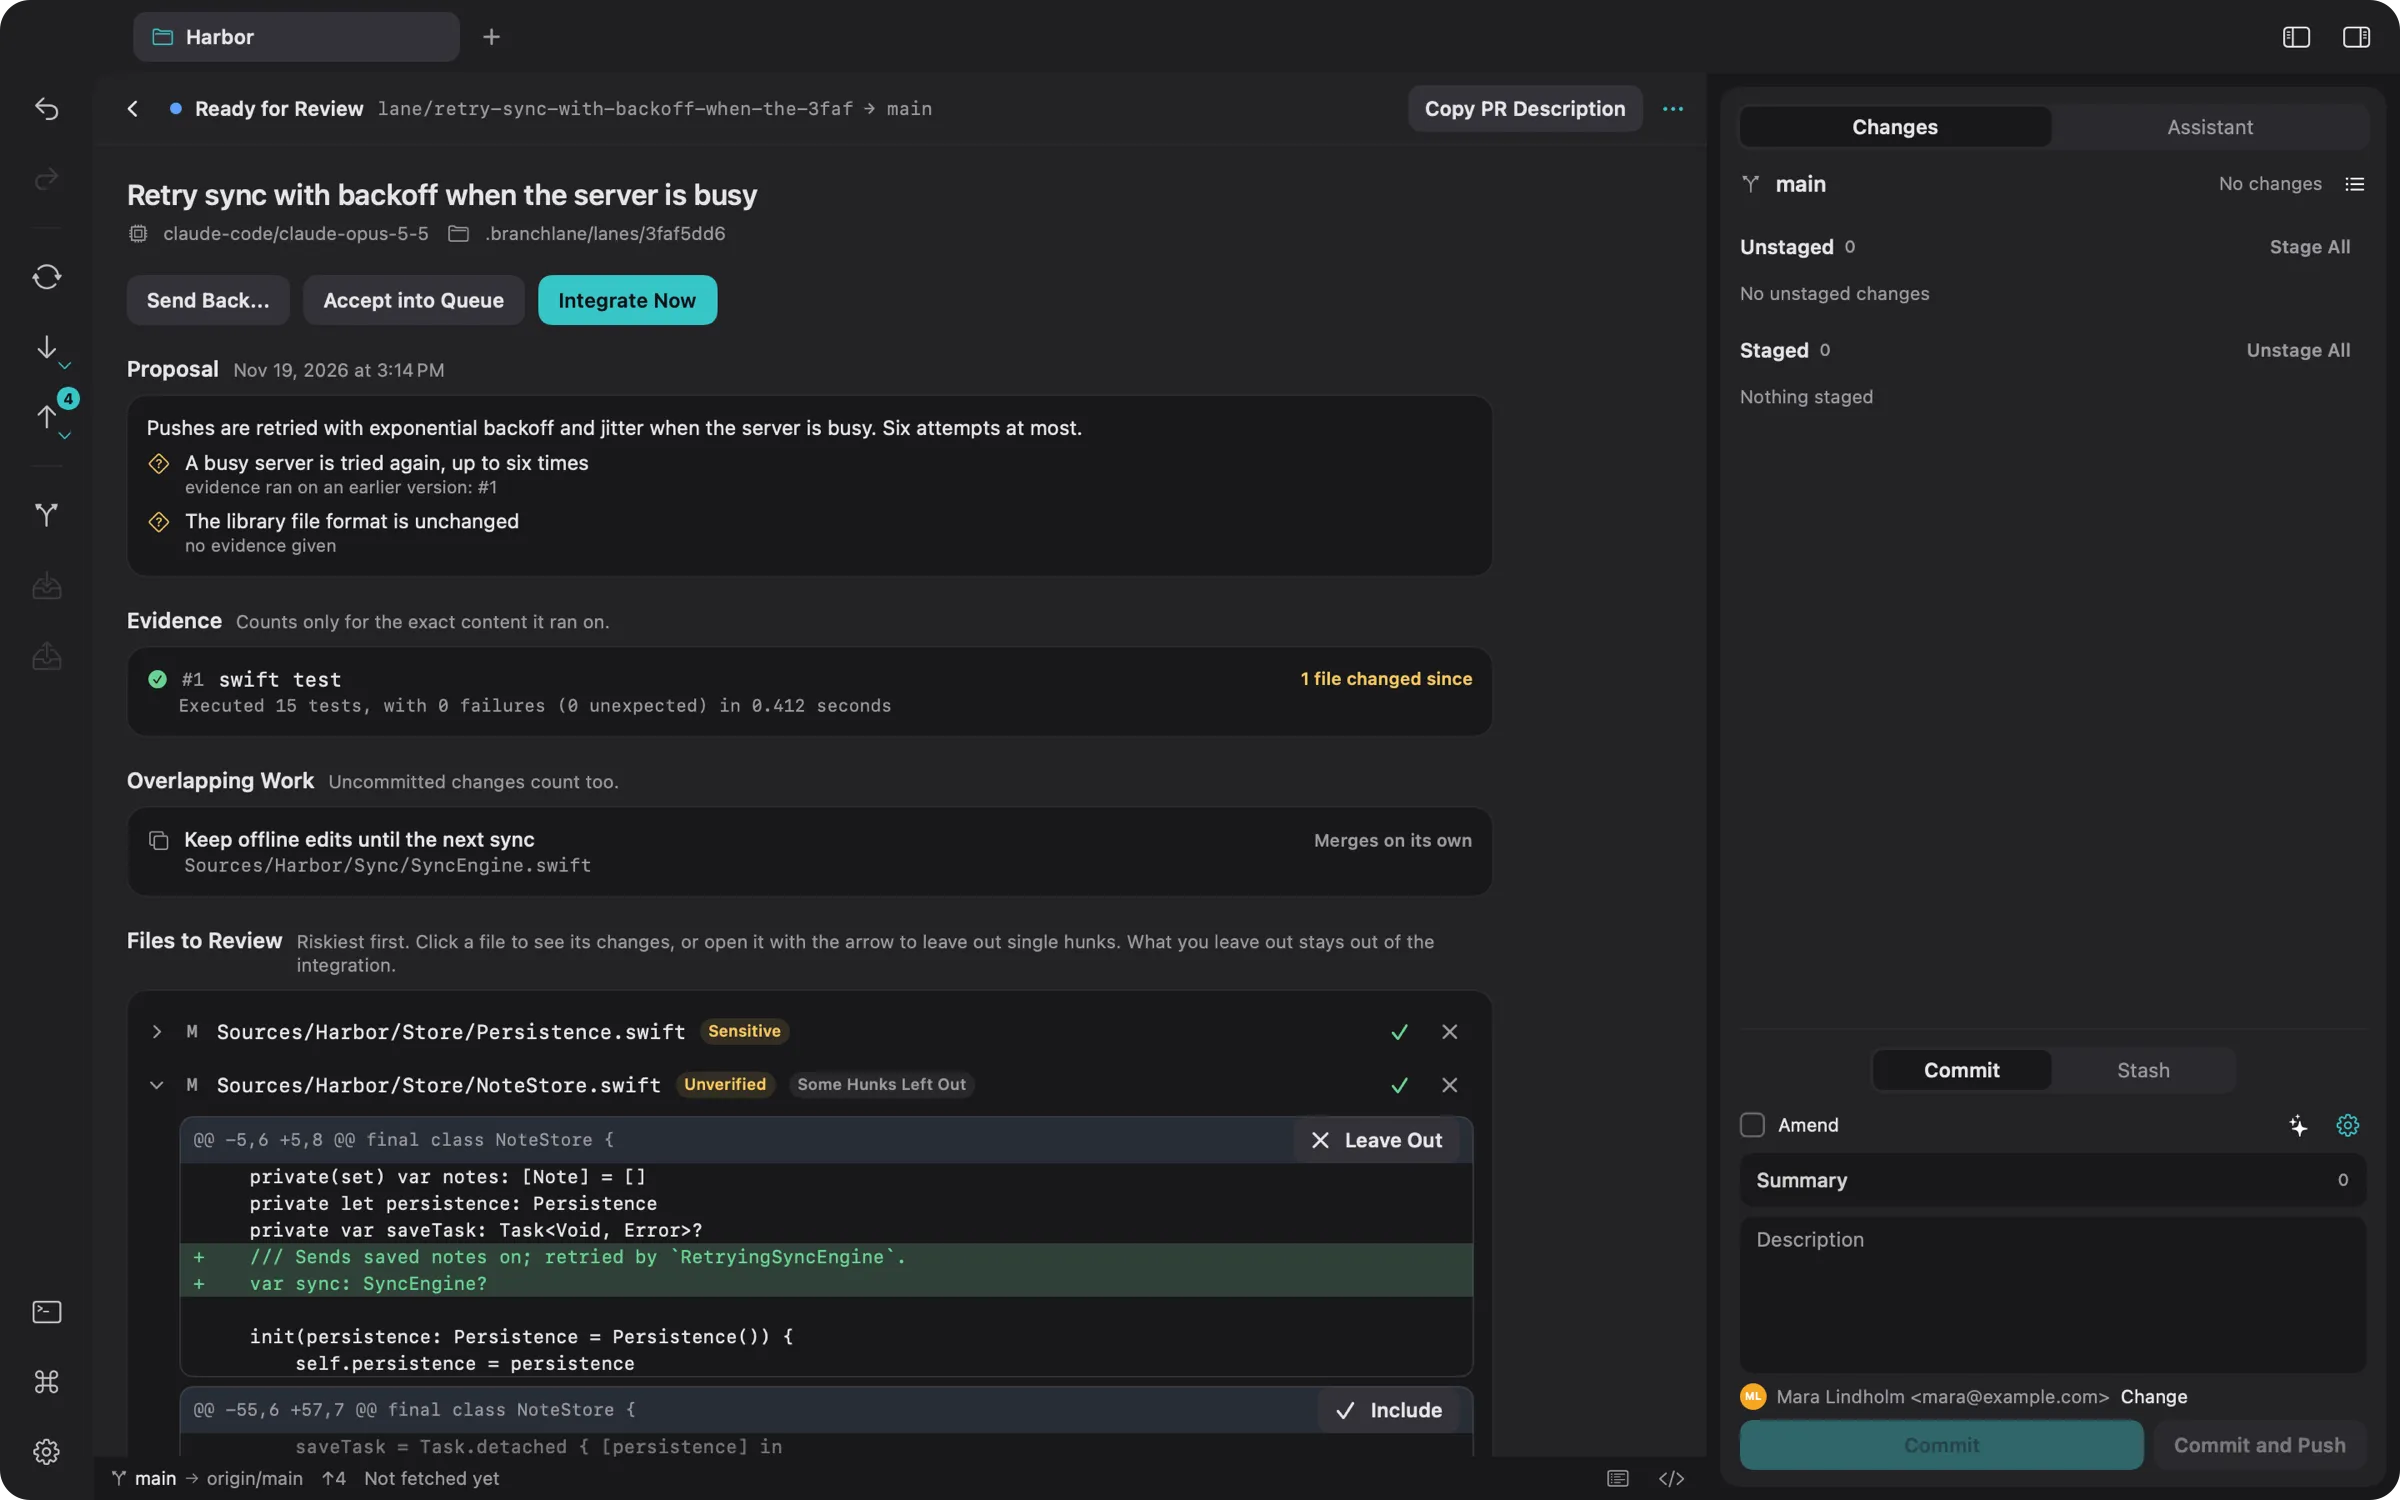
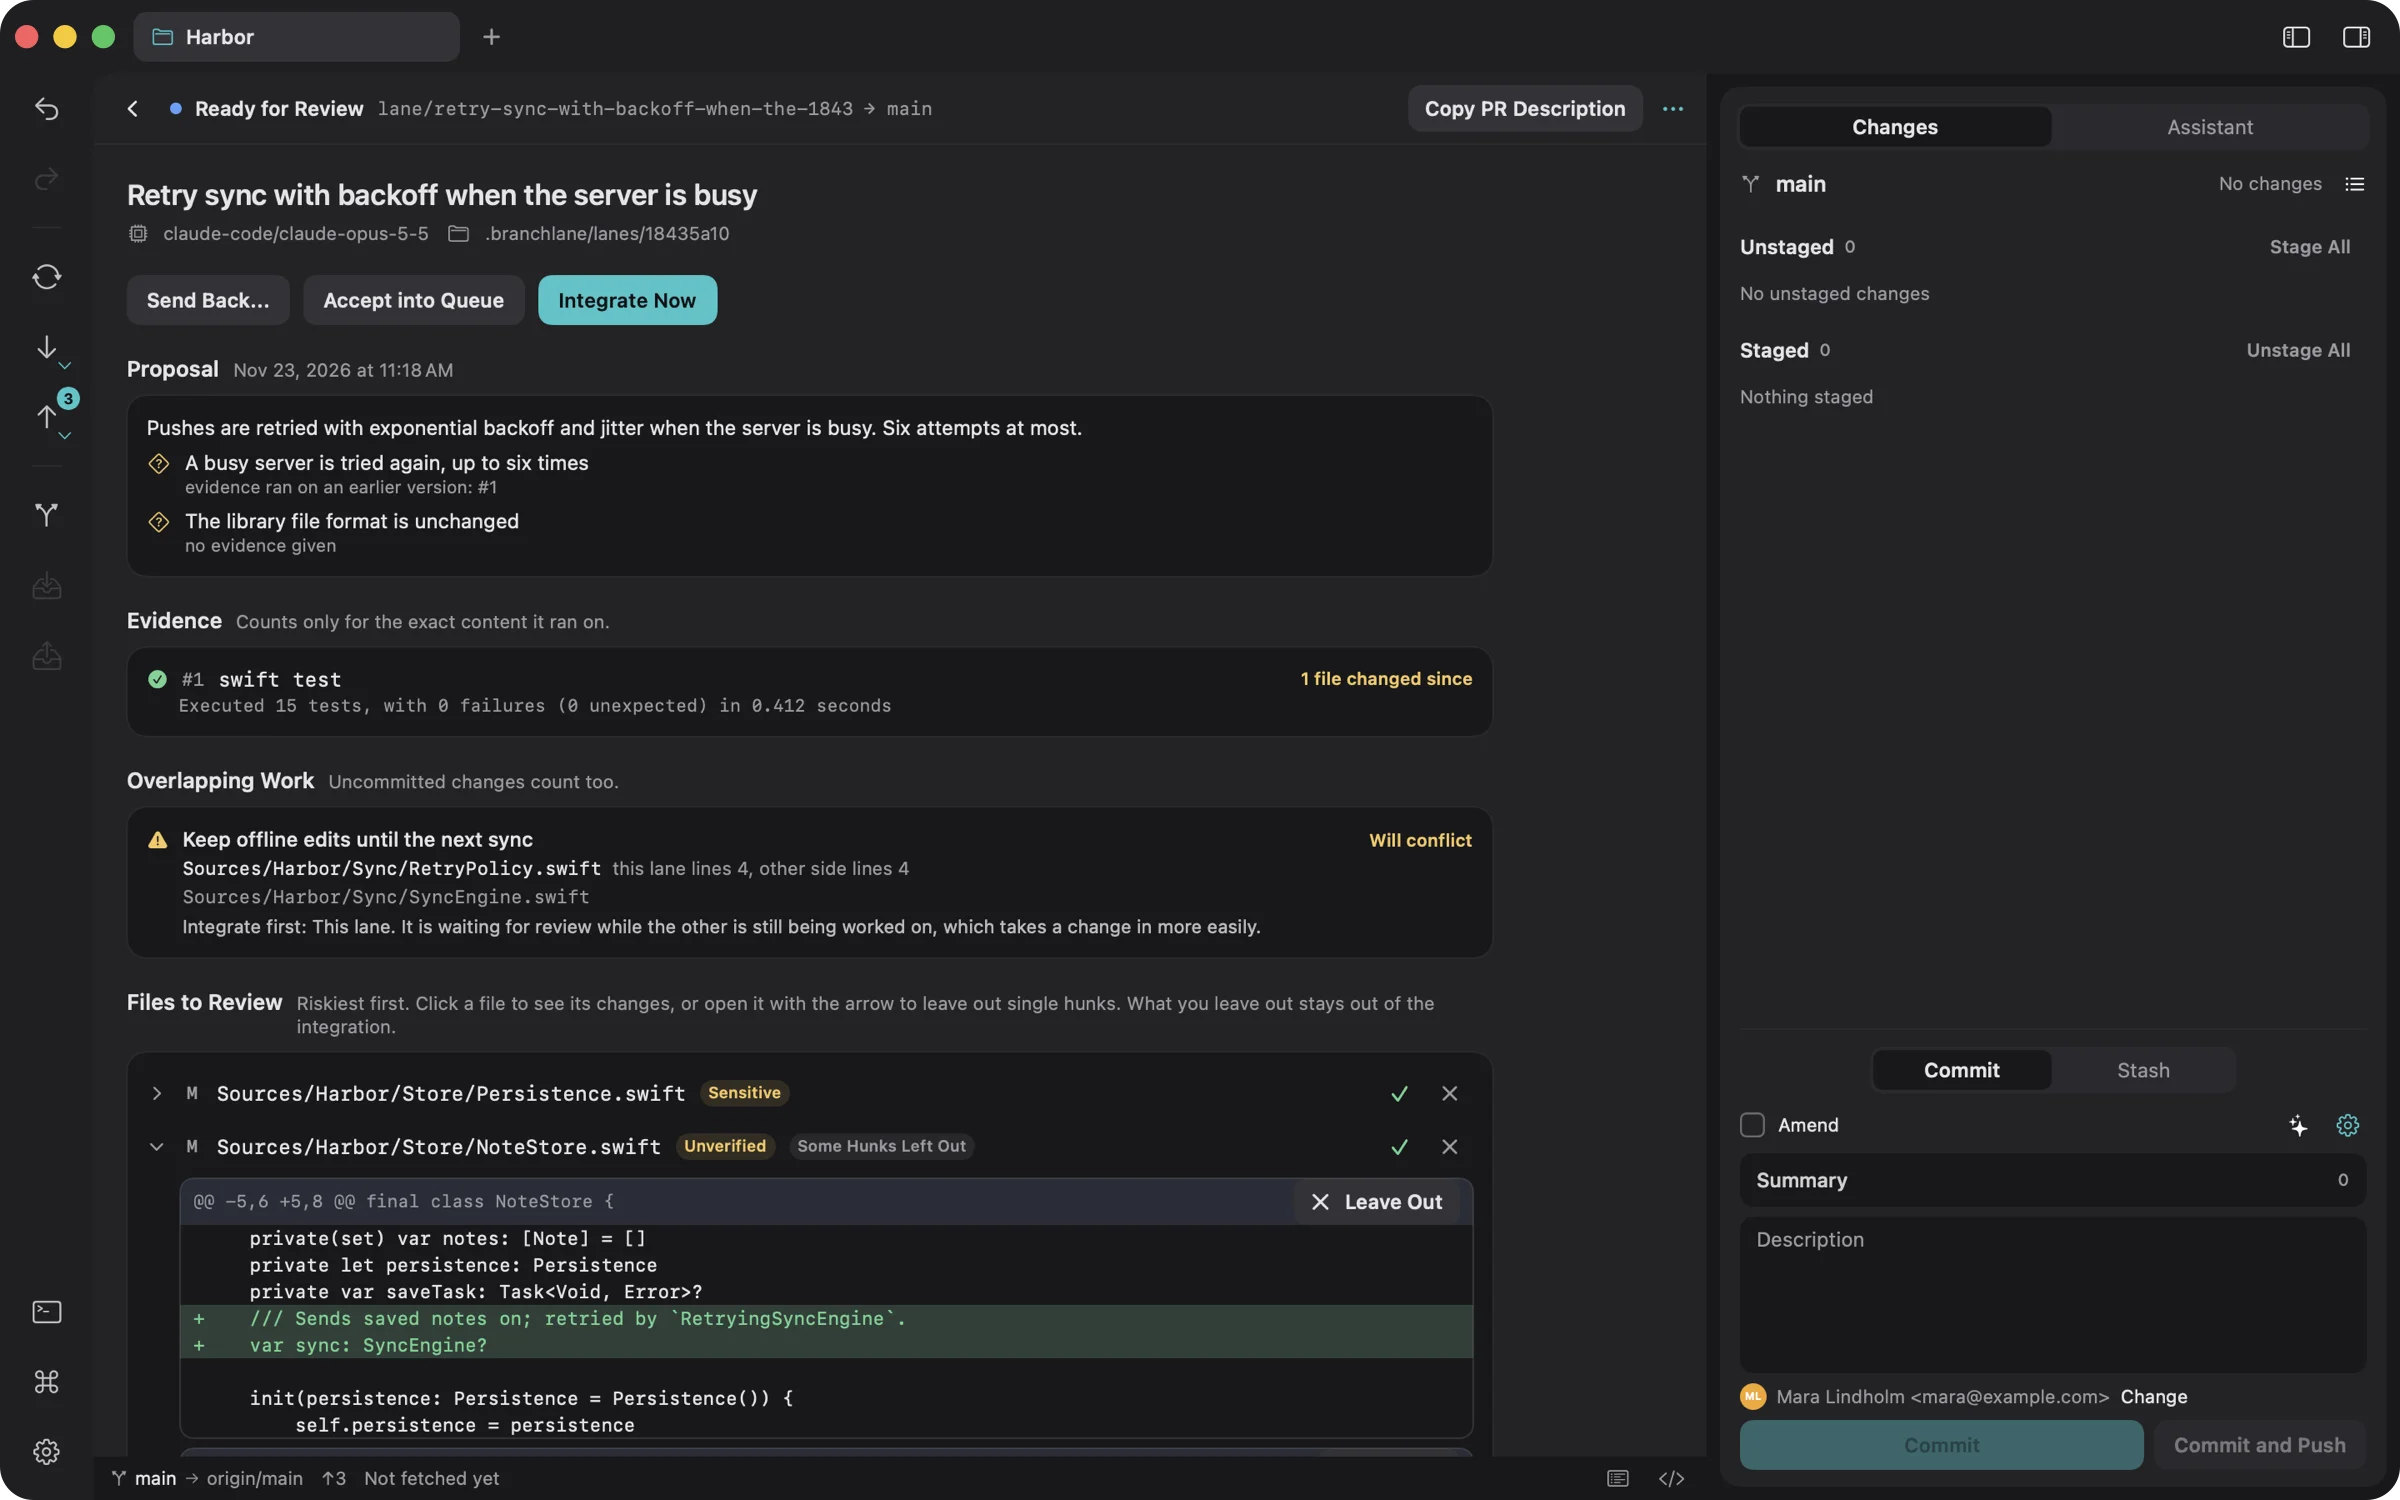
랜딩 새 기능을 2.3.0으로 바꾸고 Lane 사진을 겹친 줄 안내가 보이는 화면으로 교체

diff --git a/ko/index.html b/ko/index.html
@@ -142,7 +142,7 @@
         <g class="pill" style="--d:1.25s"><rect x="530" y="397" width="148" height="26" rx="7" fill="color-mix(in srgb, #f5a93a 14%, #090c11)" stroke="#f5a93a" stroke-opacity=".5"/><text x="604.0" y="414.5" text-anchor="middle" fill="color-mix(in srgb, #f5a93a 72%, white)">feature/settings</text></g>
         <g class="pill" style="--d:1.35s"><rect x="186" y="449" width="124" height="26" rx="7" fill="color-mix(in srgb, #4c9ff6 14%, #090c11)" stroke="#4c9ff6" stroke-opacity=".5"/><text x="248.0" y="466.5" text-anchor="middle" fill="color-mix(in srgb, #4c9ff6 72%, white)">origin/main</text></g>
       </svg>
-        <p class="hero-tag"><span class="ref solid code" style="--c:var(--teal)">v2.2.0</span> <span>AI 에이전트가 한 일을 검토하세요</span></p>
+        <p class="hero-tag"><span class="ref solid code" style="--c:var(--teal)">v2.3.0</span> <span>AI 에이전트가 한 일을 검토하세요</span></p>
         <h1>Git 작업은<br>내 Mac에서.</h1>
         <p class="lede">읽기 쉬운 커밋 그래프, 줄 단위 스테이징, 잘못된 작업을 되돌리는 실행 취소까지 갖춘 무료 macOS 네이티브 Git 클라이언트입니다.</p>
         <div class="actions">
@@ -426,19 +426,19 @@
       <section class="sec" id="whats-new">
         <div class="wrap log-grid">
           <header class="head node rv" style="--c:var(--violet)">
-            <span class="ref code" style="--c:var(--violet)">tag: v2.2.0</span>
-            <h2>여러 AI 에이전트를 한 화면에서 검토하세요.</h2>
-            <p class="lede">Branchlane 2.2는 코딩 에이전트마다 자기 Lane을 주고, 무엇이 들어갈지는 사람이 정하게 합니다. 서버 없이, Git 안에서.</p>
+            <span class="ref code" style="--c:var(--violet)">tag: v2.3.0</span>
+            <h2>에이전트끼리 부딪힌 곳, Lane 안에서 풀어요.</h2>
+            <p class="lede">Branchlane 2.3은 두 Lane이 함께 바꾼 줄을 정확히 보여 주고, 무엇을 먼저 통합할지 알려 주며, 나머지는 Lane 폴더에서 맞추게 합니다. 병합 커밋도 Git이 쓰는 모양 그대로 남습니다.</p>
           </header>
           <ul class="log rv">
+            <li style="--c:var(--violet)"><span class="ref pro">Pro</span><h3>줄 단위로 보이는 충돌</h3><p>두 Lane이나 워크트리가 같은 파일을 바꾸면, 양쪽이 바꾼 줄 범위와 먼저 통합할 쪽을 보여 줍니다. 에이전트도 자기 도구로 같은 범위를 읽습니다.</p></li>
+            <li style="--c:var(--amber)"><span class="ref pro">Pro</span><h3>대상 브랜치를 받아 맞추기</h3><p>대상 브랜치가 앞서 나가면 Lane 폴더 안에서 병합합니다. 충돌은 Lane 탭의 충돌 편집기로 열리고 대상 브랜치는 움직이지 않습니다. 끝나면 다시 제안합니다.</p></li>
+            <li style="--c:var(--green)"><span class="ref free">무료</span><h3>브랜치 이름으로 남는 병합 커밋</h3><p>병합 커밋이 커밋 해시 대신 <code>Merge branch 'develop' into feature</code>로 남습니다. 설정에서 전체 ref나 해시로 바꿀 수 있습니다.</p></li>
+            <li style="--c:var(--blue)"><span class="ref free">무료</span><h3>가이드와 개발자 문서</h3><p>매일 쓰는 법과 문제 해결을 담은 <a href="guide/" style="color:var(--teal)">가이드</a>, 에이전트와 도구를 로컬 MCP 서버에 연결하는 <a href="developers/" style="color:var(--teal)">개발자 문서</a>를 열었습니다.</p></li>
             <li style="--c:var(--green)"><span class="ref pro">Pro</span><h3>에이전트 Lane</h3><p>Claude Code, Codex 같은 에이전트에게 각자 브랜치와 워크트리를 주고, 작업을 앱에서 검토하고 통합합니다. 에이전트는 이 Mac 안에서만 열리는 서버로 연결됩니다.</p></li>
             <li style="--c:var(--blue)"><span class="ref pro">Pro</span><h3>코드를 아는 증거</h3><p>테스트 결과는 그 테스트가 돈 코드에만 유효합니다. 테스트 뒤에 파일이 바뀌면 표시하고, 보호·민감 파일을 먼저 보여 줍니다.</p></li>
             <li style="--c:var(--teal)"><span class="ref pro">Pro</span><h3>일부만 받기</h3><p>파일이나 헝크 하나를 빼고, 이유와 함께 Lane을 돌려보냅니다. 에이전트는 자기 도구로 그 이유를 읽습니다.</p></li>
-            <li style="--c:var(--amber)"><span class="ref pro">Pro</span><h3>안전한 통합과 되돌리기</h3><p>대상 브랜치가 그새 바뀌어 맞지 않으면 아무것도 바꾸지 않습니다. 통합한 Lane은 커밋 하나로 되돌립니다.</p></li>
-            <li style="--c:var(--violet)"><span class="ref pro">Pro</span><h3>병합 전에 보이는 충돌</h3><p>워크트리끼리 커밋하지 않은 변경까지 비교해, 에이전트끼리 부딪히는 곳을 일찍 보여 줍니다.</p></li>
-            <li style="--c:var(--red)"><span class="ref pro">Pro</span><h3>에이전트 규칙</h3><p>보호 브랜치와 경로, 승인이 필요한 동작을 정하고, 위험한 요청은 확인을 받습니다.</p></li>
             <li style="--c:var(--green)"><span class="ref free">무료</span><h3>누가 어느 줄을 썼나</h3><p>그래프와 블레임에 에이전트가 만든 커밋을 표시하고, Agent Trace 기록으로 AI가 쓴 줄을 보여 줍니다.</p></li>
-            <li><span class="ref free">무료</span><h3>내 Mac에만 남는 사용 요약</h3><p>설정에서 Lane을 어떻게 쓰는지 요약해 보여 줍니다. 이 Mac에만 남고, 직접 복사할 때만 밖으로 나갑니다.</p></li>
           </ul>
         </div>
       </section>

diff --git a/index.html b/index.html
@@ -142,7 +142,7 @@
         <g class="pill" style="--d:1.25s"><rect x="530" y="397" width="148" height="26" rx="7" fill="color-mix(in srgb, #f5a93a 14%, #090c11)" stroke="#f5a93a" stroke-opacity=".5"/><text x="604.0" y="414.5" text-anchor="middle" fill="color-mix(in srgb, #f5a93a 72%, white)">feature/settings</text></g>
         <g class="pill" style="--d:1.35s"><rect x="186" y="449" width="124" height="26" rx="7" fill="color-mix(in srgb, #4c9ff6 14%, #090c11)" stroke="#4c9ff6" stroke-opacity=".5"/><text x="248.0" y="466.5" text-anchor="middle" fill="color-mix(in srgb, #4c9ff6 72%, white)">origin/main</text></g>
       </svg>
-        <p class="hero-tag"><span class="ref solid code" style="--c:var(--teal)">v2.2.0</span> <span>Review what your AI agents did</span></p>
+        <p class="hero-tag"><span class="ref solid code" style="--c:var(--teal)">v2.3.0</span> <span>Review what your AI agents did</span></p>
         <h1>Git work stays<br>on your Mac.</h1>
         <p class="lede">A free, native Git client for macOS with a commit graph you can actually read, staging down to the line, and undo for when a move goes wrong.</p>
         <div class="actions">
@@ -426,19 +426,19 @@
       <section class="sec" id="whats-new">
         <div class="wrap log-grid">
           <header class="head node rv" style="--c:var(--violet)">
-            <span class="ref code" style="--c:var(--violet)">tag: v2.2.0</span>
-            <h2>Several AI agents, one place to review them.</h2>
-            <p class="lede">Branchlane 2.2 gives each coding agent a lane of its own and keeps you in charge of what lands, without a server and without leaving Git.</p>
+            <span class="ref code" style="--c:var(--violet)">tag: v2.3.0</span>
+            <h2>Agents that step on each other, settled in the lane.</h2>
+            <p class="lede">Branchlane 2.3 shows exactly which lines two lanes both change, says which should land first, and lets you settle the rest in the lane's own folder. Merge commits read the way Git writes them.</p>
           </header>
           <ul class="log rv">
+            <li style="--c:var(--violet)"><span class="ref pro">Pro</span><h3>Collisions down to the line</h3><p>When two lanes or worktrees change the same file, the lane shows the line ranges on each side and which one to integrate first. Agents read the same ranges from their own tools.</p></li>
+            <li style="--c:var(--amber)"><span class="ref pro">Pro</span><h3>Take in the target and settle</h3><p>When the target moved on, merge it into the lane in its own folder. Conflicts open in the lane's tab with the conflict editor, and the target branch does not move. Then propose the lane again.</p></li>
+            <li style="--c:var(--green)"><span class="ref free">Free</span><h3>Merge commits named after the branch</h3><p>Merges are written as <code>Merge branch 'develop' into feature</code> instead of a commit hash. Settings can show the full ref or the hash instead.</p></li>
+            <li style="--c:var(--blue)"><span class="ref free">Free</span><h3>A guide and developer docs</h3><p>A <a href="guide/" style="color:var(--teal)">guide</a> for everyday use and troubleshooting, and <a href="developers/" style="color:var(--teal)">developer docs</a> for connecting agents and tools to the local MCP server.</p></li>
             <li style="--c:var(--green)"><span class="ref pro">Pro</span><h3>Agent lanes</h3><p>Give Claude Code, Codex and other agents their own branch and worktree, and review and integrate their work in the app. They connect through a server only programs on this Mac can reach.</p></li>
             <li style="--c:var(--blue)"><span class="ref pro">Pro</span><h3>Evidence that knows its code</h3><p>Test results count only for the code they ran on. Change a file after the tests and the lane says so, with protected and sensitive files shown first.</p></li>
             <li style="--c:var(--teal)"><span class="ref pro">Pro</span><h3>Take part of the work</h3><p>Leave out a file or a single hunk, and send the lane back with your reasons. The agent reads them from its own tools.</p></li>
-            <li style="--c:var(--amber)"><span class="ref pro">Pro</span><h3>Integrate and undo safely</h3><p>When the target moved and the work no longer fits, nothing changes. An integrated lane comes back out with one commit.</p></li>
-            <li style="--c:var(--violet)"><span class="ref pro">Pro</span><h3>Collisions before the merge</h3><p>Worktrees are compared with each other, uncommitted changes included, so you see where agents step on each other early.</p></li>
-            <li style="--c:var(--red)"><span class="ref pro">Pro</span><h3>Rules for agents</h3><p>Protected branches and paths, actions that need your approval, and a confirmation before anything risky.</p></li>
             <li style="--c:var(--green)"><span class="ref free">Free</span><h3>Who wrote which line</h3><p>Commits made by agents are marked in the graph and blame, and Agent Trace records show the lines AI wrote.</p></li>
-            <li><span class="ref free">Free</span><h3>A usage summary that stays put</h3><p>Settings shows a summary of how you use lanes. It stays on your Mac and leaves only when you copy it.</p></li>
           </ul>
         </div>
       </section>
